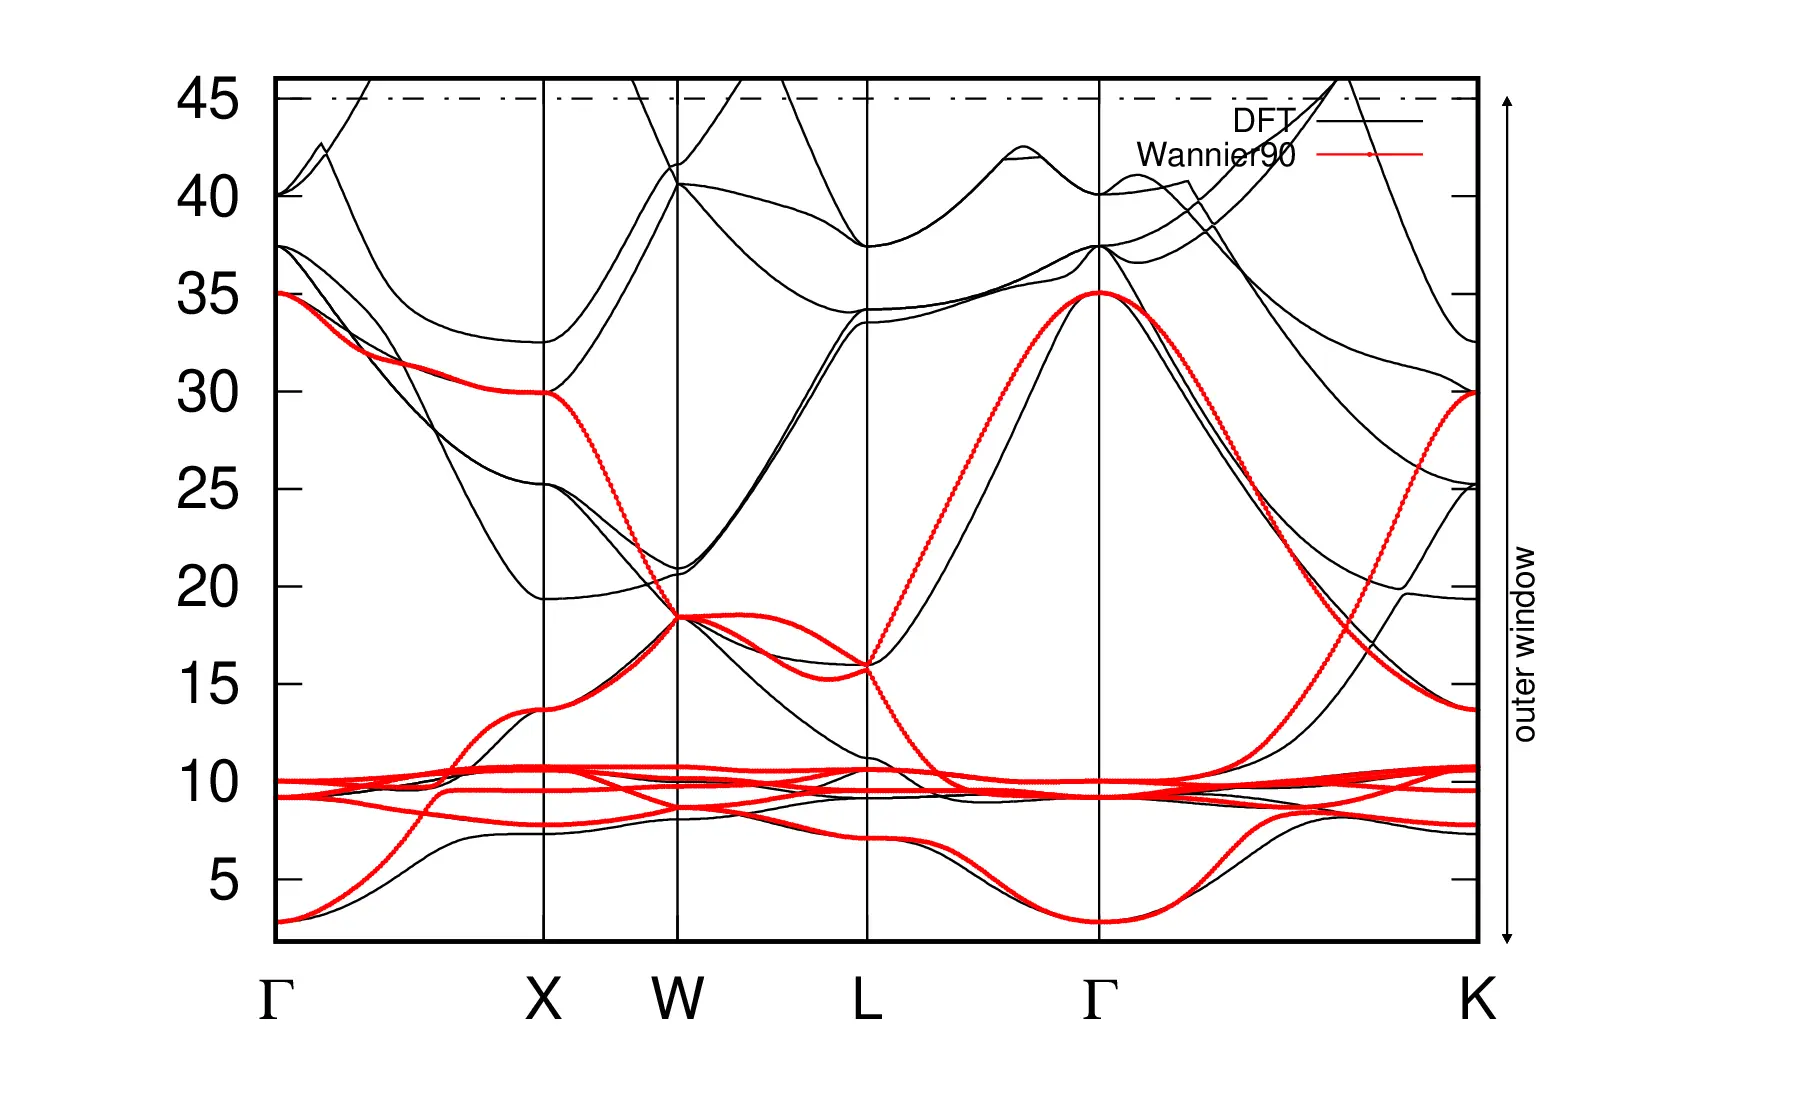
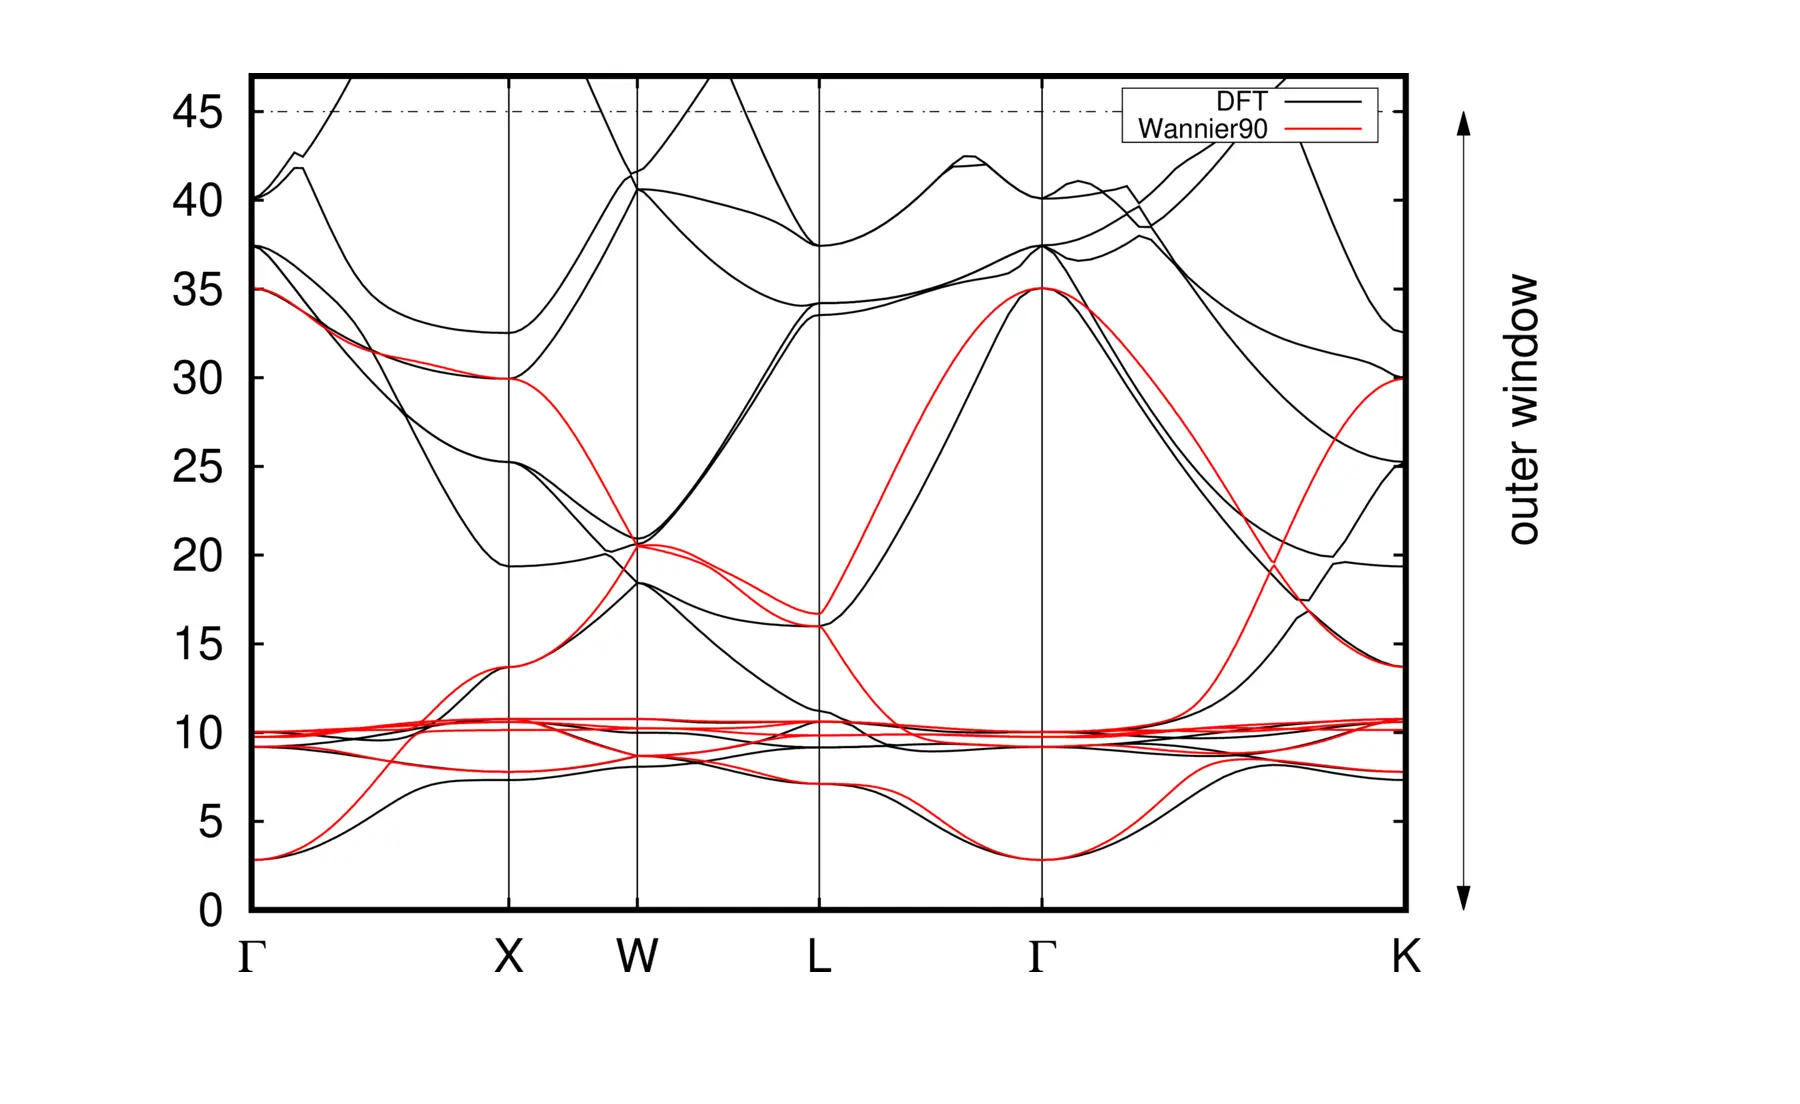
Fig. 14(f) in the original solution booklet was wrong. This commit replace the original figure with the a new correct one in the online tutorial solutions. I have tried to keep the layout as close as possible to the original figure. This fix #343

diff --git a/docs/docs/tutorial_solutions/tutorial_solution_4.md b/docs/docs/tutorial_solutions/tutorial_solution_4.md
@@ -136,7 +136,7 @@ crystal plotted with the XCrySDen program.</figcaption>
     |:-:|:-:|
     | ![a](img/ex4_copper_bs_qe_w90_5_38.webp){ width="320" } | ![b](img/ex4_copper_bs_qe_w90_9-5_38.webp){ width="320" } |
     | ![c](img/ex4_copper_bs_qe_w90_13_38.webp){ width="320" } | ![d](img/ex4_copper_bs_qe_w90_15_38.webp){ width="320" } |
-    | ![e](img/ex4_copper_bs_qe_w90_no_38.webp){ width="320" } | ![f](img/ex4_copper_bs_qe_w90_no_45.webp){ width="320" } |
+    | ![e](img/ex4_copper_bs_qe_w90_no_38.webp){ width="320" } | ![f](img/ex4_copper_bs_qe_w90_no_45.webp){ width="325" } |
 
     <figcaption markdown="span"  id="fig4-5">Interpolated
     bandstructure of Copper (solid red) with DFT reference (solid
